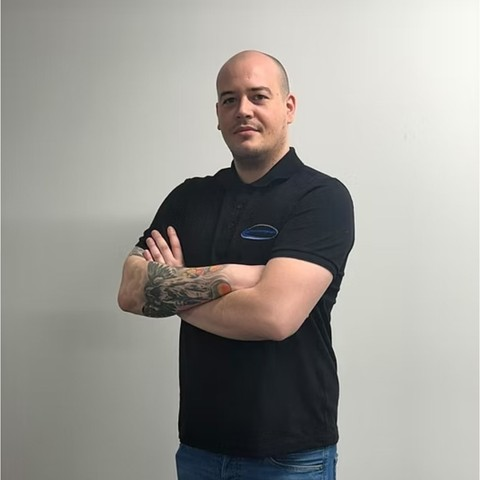
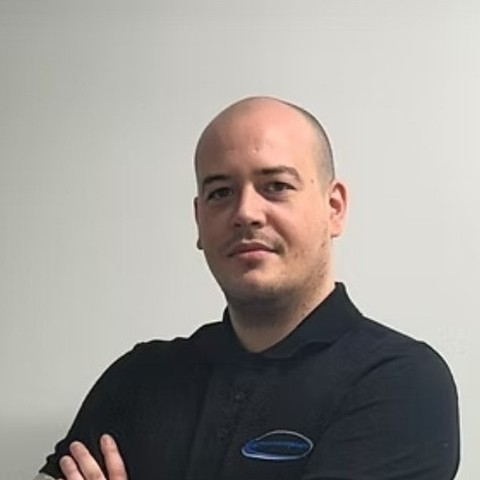
Team-Fotos: 2 weitere echte Porträts + Qualitätsverbesserung aller Zuschnitte
Deni Cizmar und Joachim Melzer erhalten echte Porträtfotos (waren zuvor
fälschlich als "kein Foto vorhanden" eingestuft) - jetzt 10 von 13
Teammitgliedern mit echtem Foto. Nur Murat Kyküz, Nordin Asrih und
Matthias Gornik zeigen weiterhin Initialen-Avatare, da für sie auch auf
der Originalseite kein Foto existiert ("Bild folgt in Kürze").

Alle bestehenden Fotos wurden zudem aus neu bereitgestellten,
höher aufgelösten Bildschirmfotos neu zugeschnitten: enger auf
Kopf/Schultern statt Ganzkörper (bessere Erkennbarkeit im kleinen
Avatar-Kreis), Collins Zuschnitt korrigiert (enthielt zuvor
Status-/Adressleiste), Malte zeigt jetzt durchgängig das vollständige
Foto mit Gesicht.

Claude-Session: https://claude.ai/code/session_01UqMCpoA8fd6LMX2bWBgJG1

diff --git a/mc-projectmanagement/index.html b/mc-projectmanagement/index.html
@@ -694,7 +694,7 @@
 
         <article class="tilt-card team-member-card reveal" style="--delay:.27s">
           <div class="sheen"></div>
-          <span class="member-avatar member-11" aria-hidden="true">DC</span>
+          <img class="member-photo" src="assets/team/deni.jpg" alt="Deni Cizmar" loading="lazy">
           <strong>Deni Cizmar</strong>
           <small>Bauleiter ELT</small>
           <details class="vita-toggle">
@@ -728,7 +728,7 @@
 
         <article class="tilt-card team-member-card reveal" style="--delay:.3s">
           <div class="sheen"></div>
-          <span class="member-avatar member-10" aria-hidden="true">JM</span>
+          <img class="member-photo" src="assets/team/joachim.jpg" alt="Joachim Melzer" loading="lazy">
           <strong>Joachim Melzer</strong>
           <small>Dozent M&amp;C Akademie</small>
           <details class="vita-toggle">

diff --git a/mc-projectmanagement/README.md b/mc-projectmanagement/README.md
@@ -52,16 +52,16 @@ mc-projectmanagement/
   **„Mehr erfahren“-Ausklapper** (`<details class="vita-toggle">`) mit
   den echten Vita-Daten von der Original-Seite: „Bei M&C … seit [Jahr]“,
   Aufgabenliste, ggf. Qualifikationen sowie persönliche E-Mail-Adresse.
-  8 von 13 Personen (Madlen Golibersuch, Collin Golibersuch, Malte Kurm,
+  10 von 13 Personen (Madlen Golibersuch, Collin Golibersuch, Malte Kurm,
   Andrea Lejk, Rene Sangmeister, Adam Wujciow, Heiko Lerchner, Thorsten
-  Heymann) zeigen inzwischen echte Porträtfotos (`assets/team/*.jpg`,
-  `<img class="member-photo">`), aus den vom Kunden gesendeten
-  Bildschirmfotos der Original-Seite zugeschnitten. Die übrigen 5
-  (Murat Kyküz, Nordin Asrih, Deni Cizmar, Joachim Melzer, Matthias
-  Gornik) zeigen weiterhin **Initialen-Avatare** (`.member-avatar`),
-  da für sie noch kein Foto vorliegt bzw. die Originalseite für
-  Matthias Gornik selbst „Bild folgt in Kürze“ anzeigt – sobald weitere
-  Fotos vorliegen, einfach nach demselben Muster (`assets/team/`-Datei
+  Heymann, Deni Cizmar, Joachim Melzer) zeigen echte Porträtfotos
+  (`assets/team/*.jpg`, `<img class="member-photo">`), aus vom Kunden
+  gesendeten Bildschirmfotos der Original-Seite zugeschnitten
+  (Kopf-/Schulter-Ausschnitt, 480×480). Die übrigen 3 (Murat Kyküz,
+  Nordin Asrih, Matthias Gornik) zeigen weiterhin **Initialen-Avatare**
+  (`.member-avatar`) – für sie zeigt die Originalseite selbst „Bild
+  folgt in Kürze“, es existiert also aktuell kein echtes Foto. Sobald
+  eines vorliegt, einfach nach demselben Muster (`assets/team/`-Datei
   + `<img class="member-photo" src="…" alt="…">` anstelle des
   `<span class="member-avatar …">`) ergänzen. Bei Murat Kyküz wurde die
   auf der Originalseite
